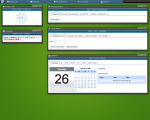
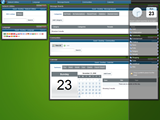
Desktop theme - Source formatting
git-svn-id: svn://svn.liferay.com/repos/public/plugins/trunk@23039 05bdf26c-840f-0410-9ced-eb539d925f36

diff --git a/themes/desktop-theme/docroot/_diffs/css/default/base.css b/themes/desktop-theme/docroot/_diffs/css/default/base.css
@@ -12,16 +12,16 @@ body {
 
 /* ---------- Main background ---------- */
 
-body.desktop-login {
-	background: #5C9515 url(../../images/desktop/desktop_login_bg.png) no-repeat fixed bottom left;
+#desktop-locked, #desktop-login {
+	background: #5C9515 url(../../images/desktop/desktop_locked_bg.png) no-repeat fixed bottom left;
 }
 
-body.desktop-maximized {
+#desktop-maximized {
 	background: #222 url(../../images/desktop/desktop_maximized_bg.png) no-repeat fixed bottom left;
 }
 
-body.desktop-normal {
-	background: #5C9515 url(../../images/desktop/desktop_normal_bg.png) no-repeat fixed 50% 50%;
+#desktop-user {
+	background: #5C9515 url(../../images/desktop/desktop_user_bg.jpg) no-repeat fixed 50% 50%;
 }
 
 /* ---------- Main content body ---------- */

diff --git a/themes/desktop-theme/docroot/_diffs/css/default/ie6.css b/themes/desktop-theme/docroot/_diffs/css/default/ie6.css
@@ -14,11 +14,6 @@
 
 /* ---------- Portlet wrapper and icons ---------- */
 
-.ie6 .portlet-icons a.selected {
-	filter: alpha(opacity=100);
-	opacity: 1;
-}
-
 .ie6 .icon-min a {
 	background: transparent url(../../images/portlet/minimize_hover.png) no-repeat scroll 0 0;
 	filter: alpha(opacity=50);
@@ -37,15 +32,13 @@
 	opacity: .5;
 }
 
+.ie6 .icon-min a.selected, .ie6 .icon-max a.selected, .ie6 .icon-close a.selected {
+	filter: alpha(opacity=100);
+	opacity: 1;
+}
+
 /* ---------- Add Content portlet ---------- */
 
 .ie6 #portal_add_content .expanded {
 	background-image: none;
-}
-
-/* ---------- Tagged Content portlet ---------- */
-
-.ie6 #content-wrapper .portlet-boundary.portlet-tagged-content {
-	filter: alpha(opacity=100);
-	opacity: 1;
 }

diff --git a/themes/desktop-theme/docroot/_diffs/css/default/taskbar.css b/themes/desktop-theme/docroot/_diffs/css/default/taskbar.css
@@ -17,11 +17,11 @@
 /* ---------- Taskbar portlet links ---------- */
 
 #taskbar-portlets-wrapper {
-	height:24px;
-	left:0;
-	overflow:hidden;
-	position:absolute;
-	top:2px;
+	height: 24px;
+	left: 0;
+	overflow: hidden;
+	position: absolute;
+	top: 2px;
 	width: 100%;
 }
 
@@ -50,11 +50,11 @@
 }
 
 #taskbar-portlets .taskbar-link a {
-	color: #EEE;
 	background: transparent url(../../images/taskbar/taskbar_link_bg.png) no-repeat scroll 100% 0;
 	border-color: #808080 #202020 #202020 #808080;
 	border-style: solid;
 	border-width: 1px;
+	color: #EEE;
 	display:block;
 	font-size: 12px;
 	line-height: 22px;

diff --git a/themes/desktop-theme/docroot/_diffs/css/default/navigation.css b/themes/desktop-theme/docroot/_diffs/css/default/navigation.css
@@ -23,14 +23,6 @@
 
 /* ---------- Dock menu ---------- */
 
-.js .interactive-mode ul {
-	opacity: .92;
-}
-
-.js .interactive-mode .lfr-flyout.has-children ul {
-	opacity: 1;
-}
-
 .js .interactive-mode ul a {
 	color: #000;
 }

diff --git a/themes/desktop-theme/docroot/_diffs/css/default/custom_portlets.css b/themes/desktop-theme/docroot/_diffs/css/default/custom_portlets.css
@@ -16,6 +16,6 @@
 
 /* ---------- Tagged Content portlet ---------- */
 
-#content-wrapper .portlet-boundary.portlet-tagged-content {
-	opacity: 1;
+#main-container .portlet-tagged-content {
+	display: block;
 }
